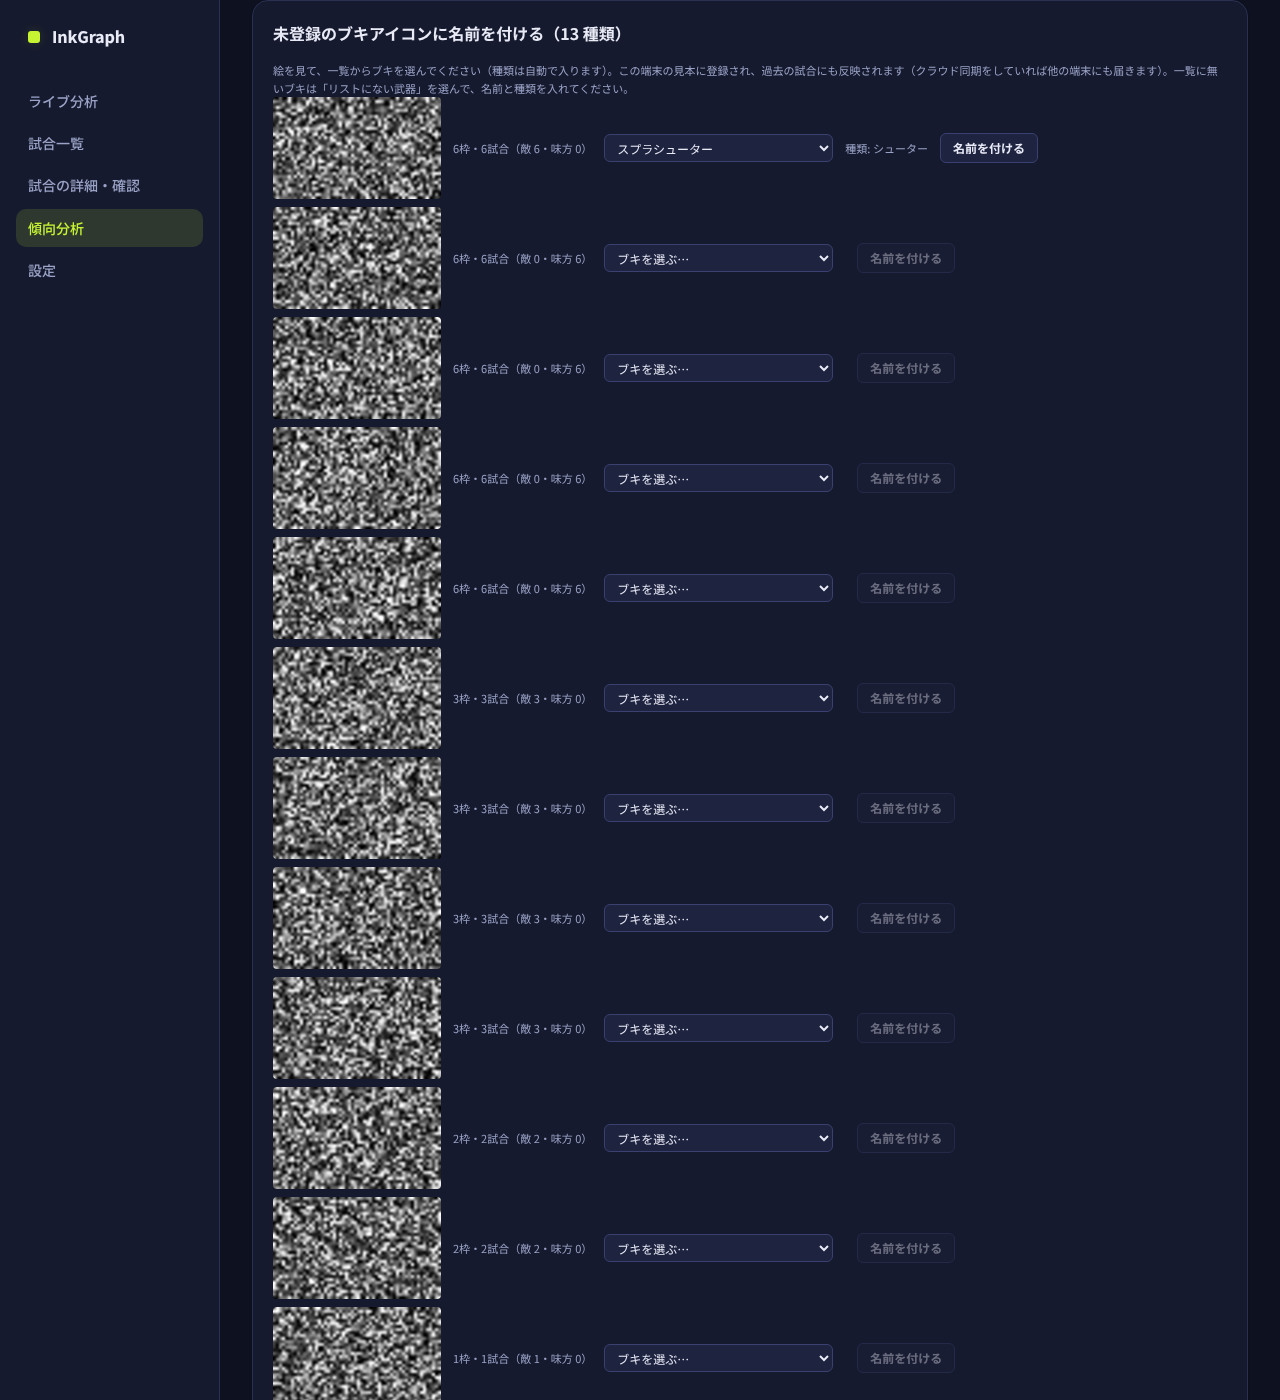
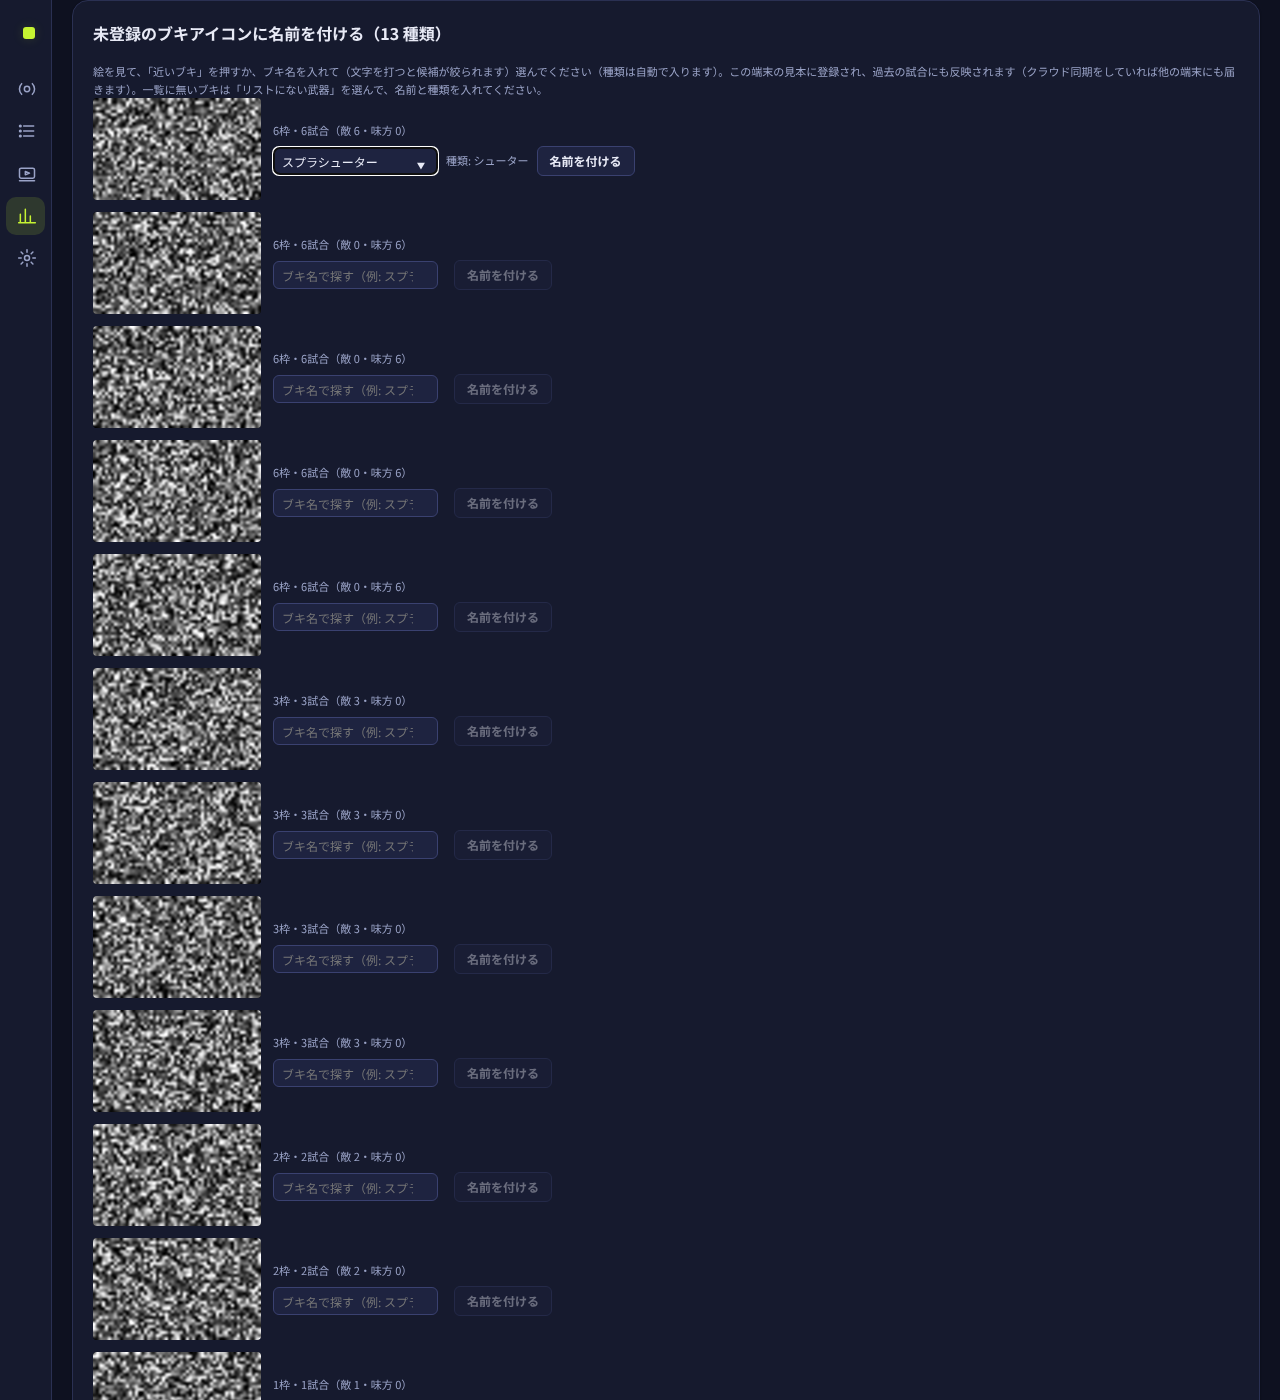
未登録ブキの名前付け: 色つきの絵・近いブキの候補・探しやすい入力 (D94) (#187)
* 検証録画: 直近1試合の全コマ＋分析結果のzip書き出し (D67)

Claude-Session: https://claude.ai/code/session_018zsqgbHNLDpb8cVTBpk5SR

* 試合ごとの録画ファイル: ルール・ステージ入りの名前で1試合1ファイル (D68)

Claude-Session: https://claude.ai/code/session_018zsqgbHNLDpb8cVTBpk5SR

* 試合録画にゲーム音を追加 (D68追記)

Claude-Session: https://claude.ai/code/session_018zsqgbHNLDpb8cVTBpk5SR

* ブキアイコンの読み違い対策（ボードの数が読めない枠を捨てる・絵の無いアイコンを出さない）と記録の全消去ボタン (D69)

Claude-Session: https://claude.ai/code/session_018zsqgbHNLDpb8cVTBpk5SR

* 試合録画: 状況表示と保存先の書き込み許可の聞き直し (D70)

Claude-Session: https://claude.ai/code/session_018zsqgbHNLDpb8cVTBpk5SR

* 試合録画: 2試合連続で別ファイルになることのテストを追加

Claude-Session: https://claude.ai/code/session_018zsqgbHNLDpb8cVTBpk5SR

* Windows デスクトップ版（Electron）の追加。ブラウザ版は録画なし・隠さない注意つきで残す (D71)

Claude-Session: https://claude.ai/code/session_018zsqgbHNLDpb8cVTBpk5SR

* 録画の診断通知を各段階に追加 (D71追記)

Claude-Session: https://claude.ai/code/session_018zsqgbHNLDpb8cVTBpk5SR

* Windows版ビルドをmainの変更で自動実行し、固定リリース desktop-latest に出す

Claude-Session: https://claude.ai/code/session_018zsqgbHNLDpb8cVTBpk5SR

* ライブ映像で「早送り」が渡って録画・中断検出が切れていた不具合を修正 (D71追記)

Claude-Session: https://claude.ai/code/session_018zsqgbHNLDpb8cVTBpk5SR

* 録画形式をMP4(H.264)にする。WebMも選べる (D72)

Claude-Session: https://claude.ai/code/session_018zsqgbHNLDpb8cVTBpk5SR

* video_rec_check: 既定のMP4に合わせてテストを更新

Claude-Session: https://claude.ai/code/session_018zsqgbHNLDpb8cVTBpk5SR

* 録画を60fps・音声192kbpsに。画質(5/8/12Mbps)を選べる (D72追記)
[…]

diff --git a/web/src/main.js b/web/src/main.js
@@ -3,7 +3,7 @@ import { Session, listDevices } from './session.js';
 import { renderTimeline, LEGEND } from './timeline.js';
 import { assistEstimate, assistText, ASSIST_NOTE, detected, effective, resultOf, accuracy, KINDS, RESULT_FIELDS, SP_LABEL, countBucket, BUCKETS, mss, pct, resultStatus, resultSourceLabel, frameStepForState, specialIntervals, specialStats, isVerificationMatch, ownMatches, MATCH_TYPE_LABEL, POWER_STATUS_LABEL, MATCH_TYPE_OPTIONS, RULE_OPTIONS, parseTrendFilter, trendFilterToQuery, filterTrendMatches, sampleTier, powerBreakdown, stageRuleRows, sortStageRows, candidateShortage, enemyWeaponRows, enemyPresenceRows, unknownIconGroups } from './analysis.js';
 import { b64bytes } from './core/img.js';
-import { prepEnemyIconLib } from './core/board_icons.js';
+import { prepEnemyIconLib, nearestNames } from './core/board_icons.js';
 import * as AN from './analysis.js';
 import { zipSync, unzipSync, strToU8 } from 'fflate';
 import * as VR from './video_rec.js';
@@ -2607,17 +2607,26 @@ PAGES.trend = async () => {
   // 未登録のアイコンに名前を付ける
   const unknownGroups = unknownIconGroups(filtered, enemyIconLib);
   const opts = weaponOptions(await getWeaponNames(), userTypeMap);
+  const weaponNameSet = new Set([...WEAPON_TYPES, UNCLASSIFIED].flatMap(t => [...opts[t]]));
+  const colorOf = new Map(); // D94: ブキの絵（グレー）→ 色つき版（解析のとき残した分）
+  for (const mm of filtered) if (mm.icon_colors) for (const f of ['enemy_icons', 'ally_icons']) for (const it of mm[f] || []) if (it && it.icon && it.slot && mm.icon_colors[it.slot] && !colorOf.has(it.icon)) colorOf.set(it.icon, mm.icon_colors[it.slot]);
   const optionsHtml = [...WEAPON_TYPES, UNCLASSIFIED].filter(t => opts[t].length).map(t => `<optgroup label="${esc(t)}">${[...opts[t]].sort((x, y) => x.localeCompare(y, 'ja')).map(n => `<option value="${esc(n)}">${esc(n)}</option>`).join('')}</optgroup>`).join('');
   const namingCardHtml = unknownGroups.length === 0 ? '' : `<div class="card trend-weapon-card" id="weapon-naming" style="margin-bottom:var(--sp-6)"><div class="card-title">未登録のブキアイコンに名前を付ける（${unknownGroups.length} 種類）</div>
-      <p class="muted" style="font-size:var(--fs-xs)">絵を見て、一覧からブキを選んでください（種類は自動で入ります）。この端末の見本に登録され、過去の試合にも反映されます（クラウド同期をしていれば他の端末にも届きます）。一覧に無いブキは「リストにない武器」を選んで、名前と種類を入れてください。</p>
-      <div class="weapon-naming-list" style="display:flex;flex-direction:column;gap:var(--sp-2)">${unknownGroups.slice(0, 30).map((g, i) => `<div class="weapon-naming-row" data-i="${i}" style="display:flex;align-items:center;gap:var(--sp-3);flex-wrap:wrap">
-        <canvas class="weapon-icon-canvas" width="168" height="102" data-icon="${esc(g.rep)}" style="background:#000;border-radius:4px"></canvas>
-        <span class="muted" style="font-size:var(--fs-xs)">${g.slots}枠・${g.matches}試合（敵 ${g.side.enemy}・味方 ${g.side.ally}）</span>
-        <select class="input-sm weapon-name-select" style="min-width:200px"><option value="">ブキを選ぶ…</option>${optionsHtml}<option value="__custom__">リストにない武器…</option></select>
-        <span class="weapon-custom" hidden style="display:none;gap:var(--sp-2);align-items:center"><input class="input-sm weapon-name-input" placeholder="ブキ名" size="18"><select class="input-sm weapon-type-select">${[...WEAPON_TYPES, UNCLASSIFIED].map(t => `<option value="${esc(t)}">${esc(t)}</option>`).join('')}</select></span>
-        <span class="weapon-type-auto muted" style="font-size:var(--fs-xs)"></span>
-        <button class="btn btn-sm weapon-name-save" type="button" disabled>名前を付ける</button>
-      </div>`).join('')}</div>${unknownGroups.length > 30 ? '<p class="muted" style="font-size:var(--fs-xs)">多い順に 30 種類まで出しています。名前を付けると次が出ます。</p>' : ''}</div>`;
+      <p class="muted" style="font-size:var(--fs-xs)">絵を見て、「近いブキ」を押すか、ブキ名を入れて（文字を打つと候補が絞られます）選んでください（種類は自動で入ります）。この端末の見本に登録され、過去の試合にも反映されます（クラウド同期をしていれば他の端末にも届きます）。一覧に無いブキは「リストにない武器」を選んで、名前と種類を入れてください。</p>
+      <datalist id="weapon-dl">${[...WEAPON_TYPES, UNCLASSIFIED].flatMap(t => [...opts[t]].map(n => `<option value="${esc(n)}">${esc(t)}</option>`)).join('')}</datalist>
+      <div class="weapon-naming-list" style="display:flex;flex-direction:column;gap:var(--sp-3)">${unknownGroups.slice(0, 30).map((g, i) => { const near = nearestNames(enemyIconLib, g.rep, 3).filter(x => x.score >= 0.6); return `<div class="weapon-naming-row" data-i="${i}" style="display:flex;align-items:center;gap:var(--sp-3);flex-wrap:wrap">
+         <canvas class="weapon-icon-canvas" width="168" height="102" data-icon="${esc(g.rep)}" style="background:#000;border-radius:4px"></canvas>
+         <div style="display:flex;flex-direction:column;gap:6px;min-width:260px">
+           <span class="muted" style="font-size:var(--fs-xs)">${g.slots}枠・${g.matches}試合（敵 ${g.side.enemy}・味方 ${g.side.ally}）</span>
+           ${near.length ? `<div class="weapon-near" style="display:flex;gap:6px;flex-wrap:wrap;align-items:center"><span class="muted" style="font-size:var(--fs-xs)">近いブキ:</span>${near.map(x => `<button class="btn btn-sm weapon-near-btn" type="button" data-name="${esc(x.name)}" title="似ている度 ${Math.round(x.score * 100)}%（見た目が近い順。違うこともあります）">${esc(x.name)} <span class="muted">${Math.round(x.score * 100)}%</span></button>`).join('')}</div>` : ''}
+           <div style="display:flex;gap:var(--sp-2);align-items:center;flex-wrap:wrap">
+             <input class="input-sm weapon-name-input" list="weapon-dl" placeholder="ブキ名で探す（例: スプラ）" size="22" autocomplete="off">
+             <select class="input-sm weapon-type-select" style="display:none">${[...WEAPON_TYPES, UNCLASSIFIED].map(t => `<option value="${esc(t)}">${esc(t)}</option>`).join('')}</select>
+             <span class="weapon-type-auto muted" style="font-size:var(--fs-xs)"></span>
+             <button class="btn btn-sm weapon-name-save" type="button" disabled>名前を付ける</button>
+           </div>
+         </div>
+       </div>`; }).join('')}</div>${unknownGroups.length > 30 ? '<p class="muted" style="font-size:var(--fs-xs)">多い順に 30 種類まで出しています。名前を付けると次が出ます。</p>' : ''}</div>`;
 
   const WEAPON_KIND_LABEL = {
     main: 'メイン',
@@ -2956,18 +2965,21 @@ PAGES.trend = async () => {
 
   // D65: 未登録のブキアイコンの絵を描き、名前を付けたら見本に登録して描き直す
   page.querySelectorAll('.weapon-icon-canvas').forEach(cv => {
-    // D85: 保存してあるのは 56x34 のグレー。そのままだと白っぽく潰れて見えるので、明るさの幅（2〜98%）を引き伸ばし、なめらかに拡大して見せる
-    const g = b64bytes(cv.dataset.icon), ctx = cv.getContext('2d'), im = ctx.createImageData(56, 34), sorted = Array.from(g.subarray(0, 56 * 34)).sort((a, b) => a - b);
-    const lo = sorted[Math.floor(sorted.length * 0.02)], hi = sorted[Math.floor(sorted.length * 0.98)], span = Math.max(24, hi - lo);
-    for (let i = 0; i < 56 * 34; i++) { const v = Math.max(0, Math.min(255, Math.round((g[i] - lo) * 255 / span))); im.data[i * 4] = im.data[i * 4 + 1] = im.data[i * 4 + 2] = v; im.data[i * 4 + 3] = 255; }
+    // D85・D94: 色つき版があれば、それを描く。無ければ（保存してあるのは 56x34 のグレー）、明るさの幅を引き伸ばして、なめらかに拡大する
+    const ctx = cv.getContext('2d'), im = ctx.createImageData(56, 34), col = colorOf.get(cv.dataset.icon);
+    if (col) { const c = b64bytes(col); for (let i = 0; i < 56 * 34; i++) { im.data[i * 4] = c[i * 3]; im.data[i * 4 + 1] = c[i * 3 + 1]; im.data[i * 4 + 2] = c[i * 3 + 2]; im.data[i * 4 + 3] = 255; } }
+    else { const g = b64bytes(cv.dataset.icon), sorted = Array.from(g.subarray(0, 56 * 34)).sort((a, b) => a - b), lo = sorted[Math.floor(sorted.length * 0.02)], hi = sorted[Math.floor(sorted.length * 0.98)], span = Math.max(24, hi - lo);
+      for (let i = 0; i < 56 * 34; i++) { const v = Math.max(0, Math.min(255, Math.round((g[i] - lo) * 255 / span))); im.data[i * 4] = im.data[i * 4 + 1] = im.data[i * 4 + 2] = v; im.data[i * 4 + 3] = 255; } }
     const tmp = document.createElement('canvas'); tmp.width = 56; tmp.height = 34; tmp.getContext('2d').putImageData(im, 0, 0);
     ctx.imageSmoothingEnabled = true; ctx.imageSmoothingQuality = 'high'; ctx.drawImage(tmp, 0, 0, cv.width, cv.height);
   });
   page.querySelectorAll('.weapon-naming-row').forEach(row => {
-    const sel = $('.weapon-name-select', row), custom = $('.weapon-custom', row), inp = $('.weapon-name-input', row), tsel = $('.weapon-type-select', row), auto = $('.weapon-type-auto', row), btn = $('.weapon-name-save', row);
-    const current = () => (sel.value === '__custom__' ? { name: inp.value.trim(), type: tsel.value } : { name: sel.value, type: sel.value ? typeOfWeapon(sel.value, userTypeMap) : '' });
-    const refresh = () => { const isC = sel.value === '__custom__'; custom.style.display = isC ? 'inline-flex' : 'none'; const c = current(); auto.textContent = !isC && c.name ? `種類: ${c.type}` : ''; btn.disabled = !c.name; };
-    sel.onchange = refresh; inp.oninput = refresh; tsel.onchange = refresh;
+    const inp = $('.weapon-name-input', row), tsel = $('.weapon-type-select', row), auto = $('.weapon-type-auto', row), btn = $('.weapon-name-save', row);
+    const known = name => weaponNameSet.has(name);
+    const current = () => { const name = inp.value.trim(); return known(name) ? { name, type: typeOfWeapon(name, userTypeMap) } : { name, type: tsel.value }; };
+    const refresh = () => { const c = current(), isKnown = known(c.name); tsel.style.display = c.name && !isKnown ? '' : 'none'; auto.textContent = c.name ? (isKnown ? `種類: ${c.type}` : '一覧にないブキ: 種類を選んでください') : ''; btn.disabled = !c.name; };
+    inp.oninput = refresh; inp.onchange = refresh; tsel.onchange = refresh;
+    row.querySelectorAll('.weapon-near-btn').forEach(b => { b.onclick = () => { inp.value = b.dataset.name; refresh(); btn.focus(); }; });
     btn.onclick = () => { const c = current(); if (!c.name) return; const g = unknownGroups[+row.dataset.i]; WL.addNamed(c.name, [g.rep], c.type !== UNCLASSIFIED ? c.type : null); PAGES.trend(); };
   });
 

diff --git a/web/src/core/board_icons.js b/web/src/core/board_icons.js
@@ -25,6 +25,12 @@ export function iconDetail(g) {
 }
 export const iconHasDetail = g => iconDetail(g) >= ICON_DETAIL_MIN;
 
+/** D94: ブキの絵の色つき版（56x34 の RGB を base64 にしたもの）。名前付けの画面で、色つきで見せる（照合には使わない） */
+export function boardIconColor(fr, dx, dy, group, idx) {
+  const x0 = BI.x0 + dx, y0 = ROW_Y[group][idx] + dy, w = BI.w, h = BI.h, o = new Uint8Array(w * h * 3), c = crop(fr, x0, y0, x0 + w, y0 + h), ox = Math.max(0, -x0), oy = Math.max(0, -y0);
+  for (let y = 0; y < c.h; y++) for (let x = 0; x < c.w; x++) { const i = y * c.w + x, t = ((y + oy) * w + x + ox) * 3; o[t] = c.r[i]; o[t + 1] = c.g[i]; o[t + 2] = c.b[i]; }
+  let s = ''; for (let i = 0; i < o.length; i++) s += String.fromCharCode(o[i]); return btoa(s);
+}
 export function encodeIcon(g) { let s = ''; for (let i = 0; i < g.length; i++) s += String.fromCharCode(g[i]); return btoa(s); }
 export function decodeIcon(s) { return b64bytes(s); }
 
@@ -222,6 +228,13 @@ export function iconSimSym(a, b) {
 const matchMemo = new WeakMap();
 
 /** 見本 lib=[{name, g}] と照合。1 種類ならその名前、2 種類以上 or AMBIG を含むなら name:null・ambiguous:[...名前]、無ければ name:null */
+/** D94: 見本の中で、この絵に近い名前を、近い順に n 個（同じ名前は最良の 1 つ）。名前付けの候補に使う。戻り値: [{ name, score }] */
+export function nearestNames(lib, g, n = 3) {
+  const items = Array.isArray(lib) ? lib : (lib && lib.lib ? lib.lib : []); if (!items.length) return [];
+  const pg = prepIcon(g), best = new Map();
+  for (const item of items) { if (!item.prep) item.prep = prepIcon(item.g); const sc = iconSimSym(item.prep, pg); if (!best.has(item.name) || sc > best.get(item.name)) best.set(item.name, sc); }
+  return [...best.entries()].sort((a, b) => b[1] - a[1]).slice(0, n).map(([name, score]) => ({ name, score: +score.toFixed(3) }));
+}
 export function matchIcon(lib, g) {
   const items = Array.isArray(lib) ? lib : (lib && lib.lib ? lib.lib : null);
   if (!items || !items.length) return { name: null, score: 0, ambiguous: null };

diff --git a/web/src/core/result.js b/web/src/core/result.js
@@ -1,7 +1,7 @@
 // Result-screen reading (port of src/inkgraph/result.py)
 import { crop, gray, bin, hsv, nccBin, nccGray, resizeArea, components } from './img.js';
 import { nn } from './assets.js';
-import { boardIconGray, encodeIcon } from './board_icons.js';
+import { boardIconGray, boardIconColor, encodeIcon } from './board_icons.js';
 const loc = (fr, x0, y0, x1, y1, t, th) => { const c = crop(fr, x0, y0, x1, y1); return nccBin(bin(gray(c), th), c.w, c.h, t); };
 export function celebration(A, fr) {
   const w = loc(fr, 0, 0, 260, 130, A.tpl.tpl_res_cel_win, 200).score, l = loc(fr, 0, 0, 260, 130, A.tpl.tpl_res_cel_lose, 200).score;
@@ -132,7 +132,7 @@ export const boardReadable = (rows, min = BOARD_MIN_ROWS) => Array.isArray(rows)
 export function readBoard(A, fr, dx, dy) { const out = [];
   for (const grp of ['top', 'bot']) ROW_Y[grp].forEach((y0, i) => { const y = y0 + dy; const h = hsv(crop(fr, 612 + dx, y, 650 + dx, y + 34)); let c = 0; for (let j = 0; j < h.H.length; j++) if (h.H[j] > 22 && h.H[j] < 38 && h.S[j] > 150 && h.V[j] > 180) c++;
     const gs = statGlyphs(fr, y + 2, y + 34, 965 + dx, 1160 + dx); const v = gs.length === 3 ? gs.map(g => readNumber(A, g)) : [null, null, null];
-    out.push({ group: grp, idx: i, own: c / h.H.length > 0.08, ka: v[0], deaths: v[1], specials: v[2], icon: encodeIcon(boardIconGray(fr, dx, dy, grp, i)) }); });
+    out.push({ group: grp, idx: i, own: c / h.H.length > 0.08, ka: v[0], deaths: v[1], specials: v[2], icon: encodeIcon(boardIconGray(fr, dx, dy, grp, i)), iconc: boardIconColor(fr, dx, dy, grp, i) }); });
   return out; }
 // ---- voting over collected result frames (streaming version of read_results) ----
 function pick(lst, k = 5) { if (!lst.length) return []; const rs = [[0]]; for (let i = 1; i < lst.length; i++) { if (lst[i].t - lst[i - 1].t <= 0.6) rs[rs.length - 1].push(i); else rs.push([i]); }

diff --git a/web/src/core/analyzer.js b/web/src/core/analyzer.js
@@ -156,6 +156,7 @@ export class Analyzer {
     rec.confidence = { ...rs.confidence, celebration_frames: m.RS.celebration.length, personal_frames: m.RS.personal.length, board_frames: m.RS.board.length, ...(m.boardRejected ? { board_rejected: m.boardRejected } : {}) };
     rec.count_check = countCheck(rec); // D77: 検出した数と結果画面の数の突き合わせ（補正はしない）
     const ownRow = rs.board ? rs.board.find(b => b.own) : null;
+    if (rs.board) { const ic = Object.fromEntries(rs.board.filter(b => b.iconc).map(b => [`${b.group}${b.idx}`, b.iconc])); if (Object.keys(ic).length) rec.icon_colors = ic; } // D94: ブキの絵の色つき版（名前付けの画面用。端末内のみ）
     rec.enemy_icons = (rs.board && ownRow) ? rs.board.filter(b => b.group === (ownRow.group === 'top' ? 'bot' : 'top')).map(b => ({ slot: `${b.group}${b.idx}`, icon: b.icon })) : [];
     // D65: 味方 4 人（自分を含む）のブキのアイコンも同じ形で保存する。自分の行には own:true を付ける（自分のブキの集計用）
     rec.ally_icons = (rs.board && ownRow) ? rs.board.filter(b => b.group === ownRow.group).map(b => (b.own ? { slot: `${b.group}${b.idx}`, icon: b.icon, own: true } : { slot: `${b.group}${b.idx}`, icon: b.icon })) : [];

diff --git a/web/src/cloud/slim.js b/web/src/cloud/slim.js
@@ -1,6 +1,6 @@
 // D58: クラウドに送る試合データ（数値と時刻だけ）の切り出しと、取り込み時の統合。DOM・ネットワーク非依存の純粋関数。
 // 送らないもの：静止画・クリップ・録画・検出用の信号（cues）・ヤグラの生データ・自己学習用の特徴量（端末にだけ残す）。
-export const LOCAL_ONLY = ['cues', 'tower_rows', 'tower_raw', 'learnFeatures', 'stage_feats', 'stills', 'clips', 'verify', 'videoFile', 'recording', 'video', 'stillsState', 'pre_recorrect', 'remote', 'synced', 'updated', 'favorite_local'];
+export const LOCAL_ONLY = ['cues', 'tower_rows', 'tower_raw', 'learnFeatures', 'stage_feats', 'icon_colors', 'stills', 'clips', 'verify', 'videoFile', 'recording', 'video', 'stillsState', 'pre_recorrect', 'remote', 'synced', 'updated', 'favorite_local'];
 export const MAX_BYTES = 400 * 1024; // 1 試合の上限（超えたら送らない。通常は 10〜30KB）
 
 /** 同期の対象か：自分の試合だけ（配信映像などの「検証用」＝他人の試合は送らない） */

diff --git a/docs/DECISIONS.md b/docs/DECISIONS.md
@@ -978,3 +978,10 @@
 - 要修正パックに `teaching/` を足す：`weapons.json`（名前・種類・結果画面ボードの 56x34 のグレー画像の base64）、`stages.json`（名前・ステージ名の文字の 120x32 の特徴の base64）。試合には紐づかない端末の見本全体。`INDEX.json` に件数、README に取り込み方（同梱の見本は `enemy_icon_lib.json`／`inkgraph_assets.json` の `lib.stage`。同じ形で足す）。
 - 修正済みの試合が 0 件でも、教えた見本があれば書き出せる（ダイアログ）。ダイアログに、見本の件数も出す。
 - テスト：`desktop_check.js` (52)（試合 0 件でも `teaching/` が入り、README に取り込み方が書かれる）。
+
+## D94 (2026-10-30) 未登録ブキの名前付け: 色つきの絵・近いブキの候補・探しやすい入力
+- 課題：未登録ブキの名前付けで、(1) 一覧（約 140 個のプルダウン）が長くて選びにくい、(2) 絵がグレーでブキが分かりにくい、(3) 何のブキか見当がつかない。
+- **色つきの絵**：解析のとき、結果画面ボードのブキの絵の**色つき版**（56x34 の RGB。`rec.icon_colors[枠]`。端末内のみ・クラウドには送らない・1 試合あたり約 60KB）を残し、名前付けの画面では、あれば色つきで描く（照合はこれまでどおりグレー）。この機能を入れる前の試合は、グレーのまま（明るさを引き伸ばして表示）。
+- **近いブキの候補**：見本の中で、見た目が近い名前を近い順に最大 3 つ、ボタンで出す（`nearestNames`。似ている度 60% 以上のみ。例: 「スプラシューター 87%」）。押すと入力欄に入る。違うことも多いので、「似ている度」を添える。
+- **探しやすい入力**：プルダウンをやめて、**ブキ名の入力欄（文字を打つと候補が絞られる）**にした。一覧にある名前なら、種類が自動で入る。一覧にない名前を打つと、種類の選択が出る（従来の「リストにない武器…」）。
+- テスト：`board_icon_scale_check.mjs`（色つき版が 720p/1080p で同じ・近い順の候補）、`weapon_stats_check.mjs`（入力欄での名前付け・色つきで描く）。未検証：実際の試合での、近い候補の当たり具合（実機のデータで確認する）。
